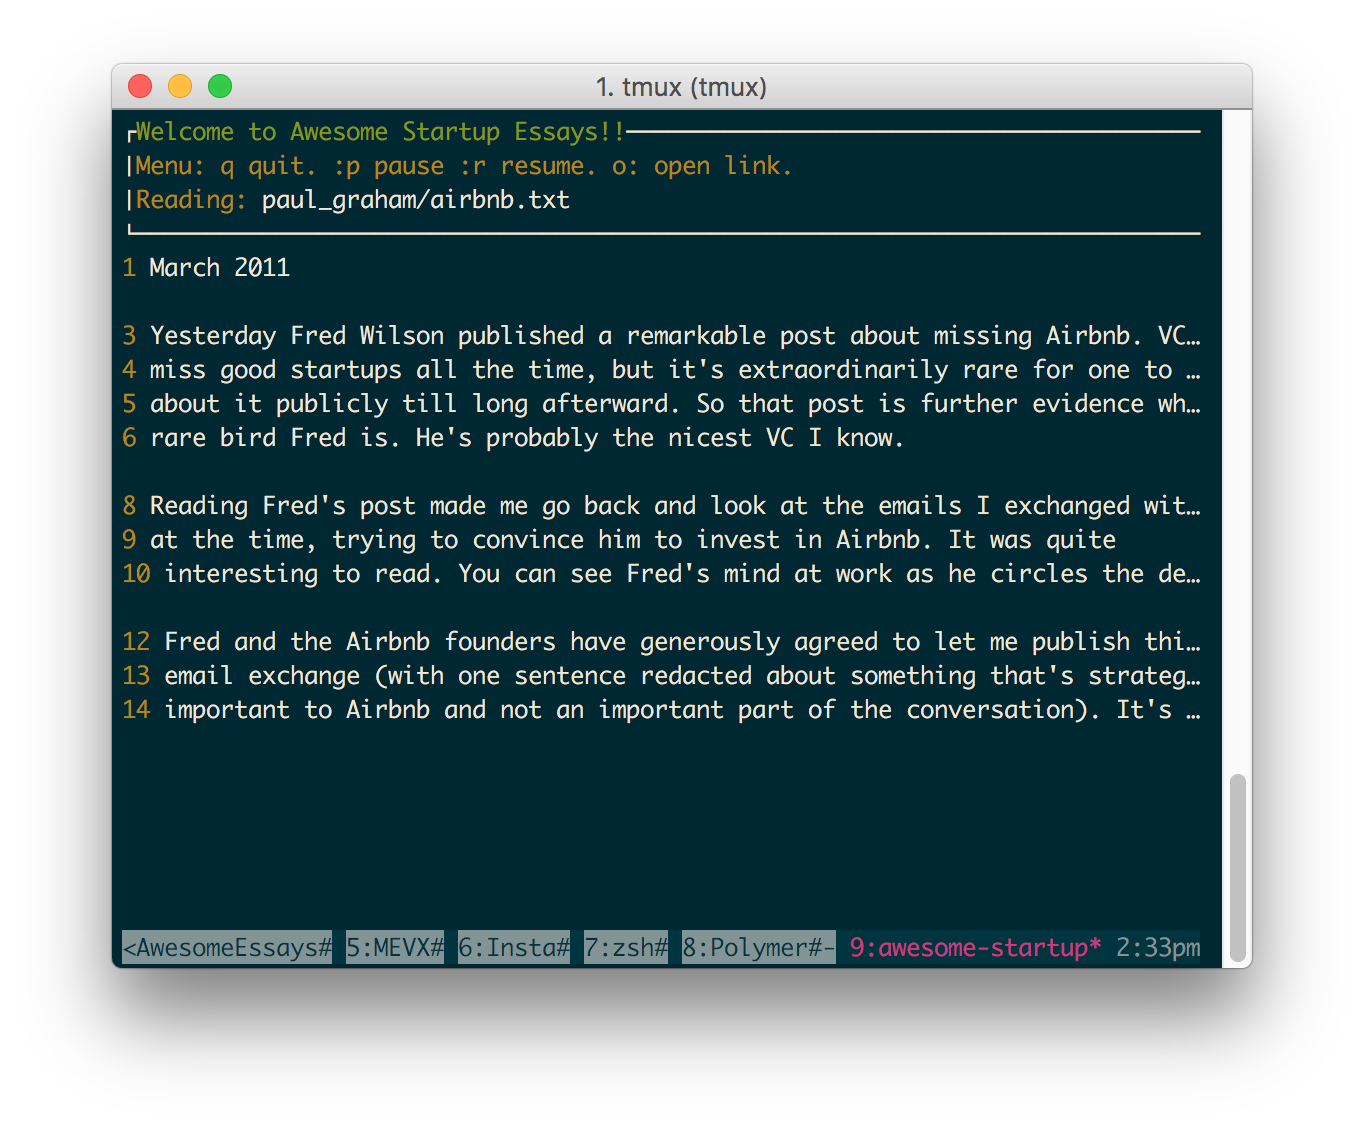
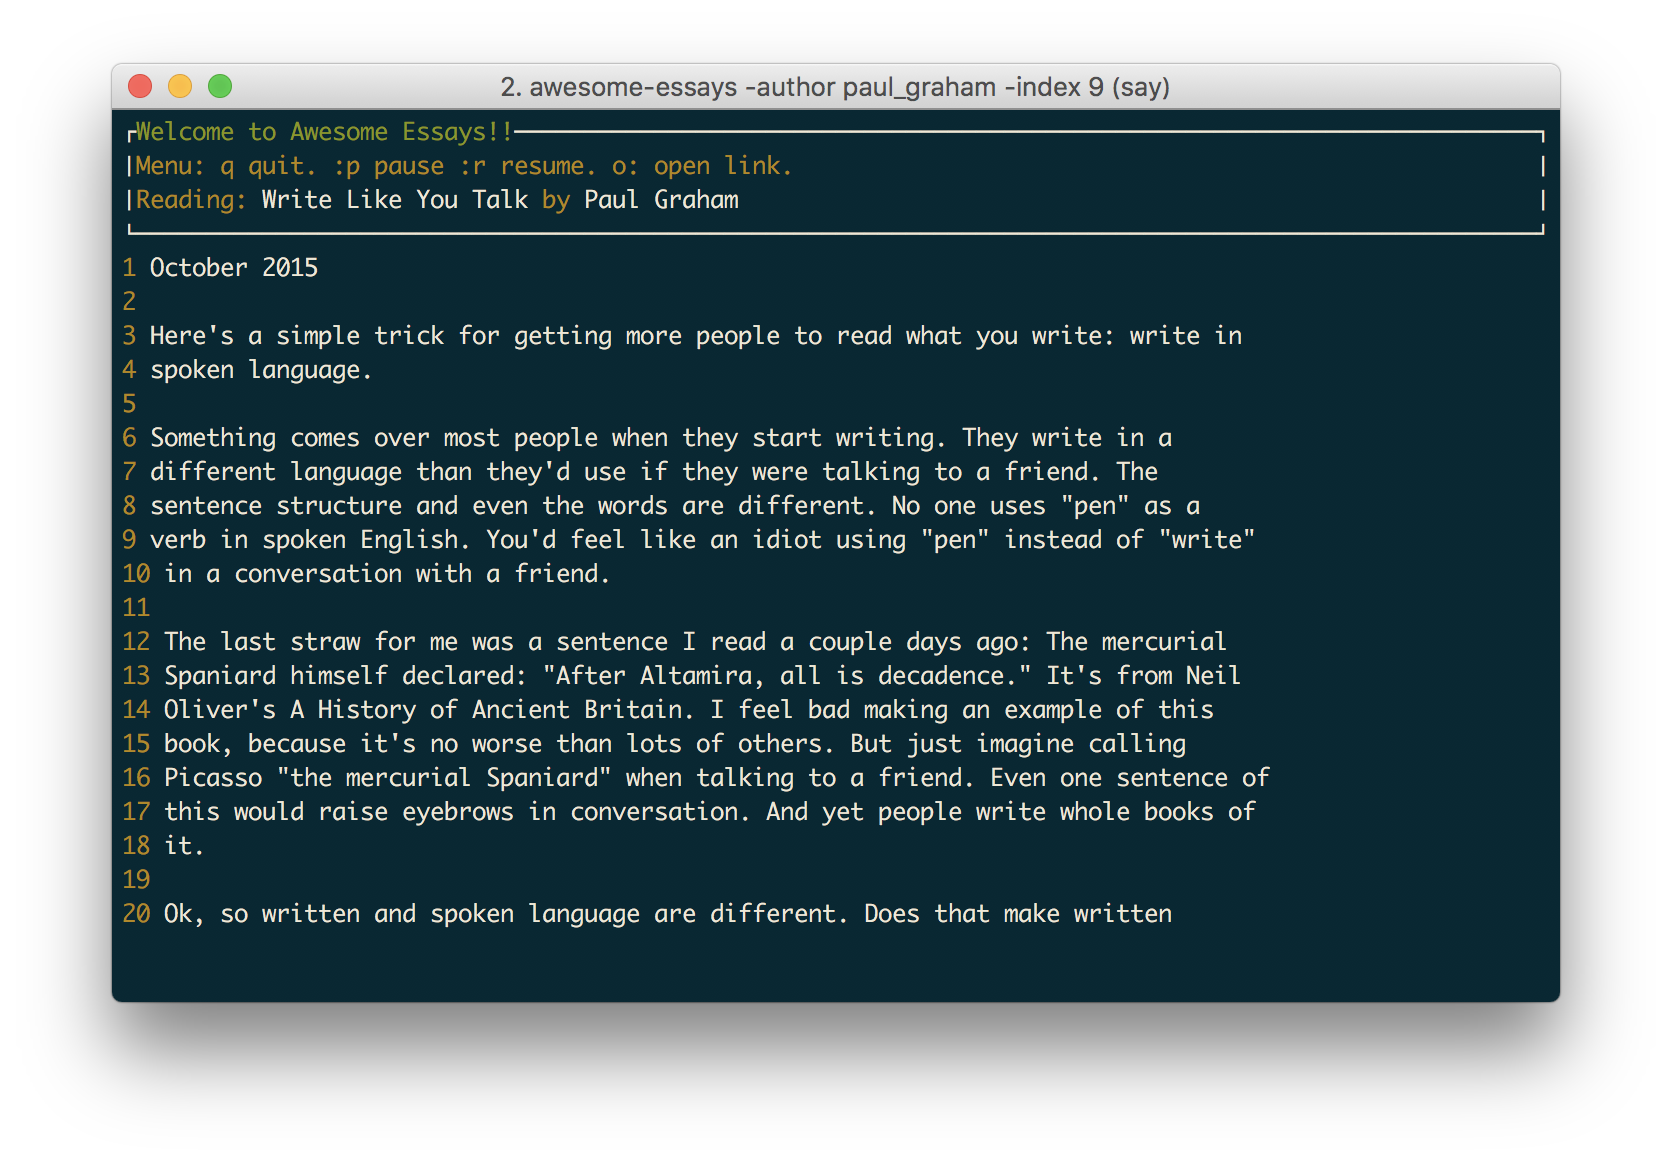
Update readme.

Changed region(s): [[0.0616, 0.0621, 0.9545, 0.8998]]

diff --git a/main.go b/main.go
@@ -93,7 +93,7 @@ func NewHeader(title string) *Header {
 		fmt.Sprintf("Reading: [%s](fg-white) by [%s](fg-white)", title, authorDetail["fullName"].(string)),
 	}
 	ls.ItemFgColor = termui.ColorYellow
-	ls.BorderLabel = "Welcome to Awesome Startup Essays!!"
+	ls.BorderLabel = "Welcome to Awesome Essays!!"
 	ls.Height = 4
 	ls.Width = 50
 	ls.Y = 0

diff --git a/README.MD b/README.MD
@@ -1,23 +1,30 @@
-# awesome-startup-essays
+# awesome-essays
 
-A simple tool I built for listening to curated collection of startup essays. Use's OSX's default text-to-speech tool.
+A simple CLI tool for listening to curated collection of essays. 
 
-**IMPORTANT**: Works on OSX only. I've plans to support platforms in the future.
+**IMPORTANT**: Works on OSX only. Other platforms will be supported in the future.
 
 ![screenshot](ss.png)
 
 # Install
 
 ```
-git clone https://github.com/hemantasapkota/awesome-startup-essays
-go build .
+go get -u github.com/hemantasapkota/awesome-essays
 ```
 
 # Usage
 
+## Listen to a title
+
 ```
-./awesome-startup-essays -fie paul_graham/airbnb.txt
+awesome-essays -author paul_graham -title "How To Raise Money"
 ```
+
+## List the titles by the author
+```
+awesome-essays -author paul_graham | less
+```
+
 # Controls
 ```
 q: Quit
@@ -25,3 +32,5 @@ p: Pause
 r: Resume
 o: Open link to the essay
 ```
+
+# Contributing  ( TODO )
